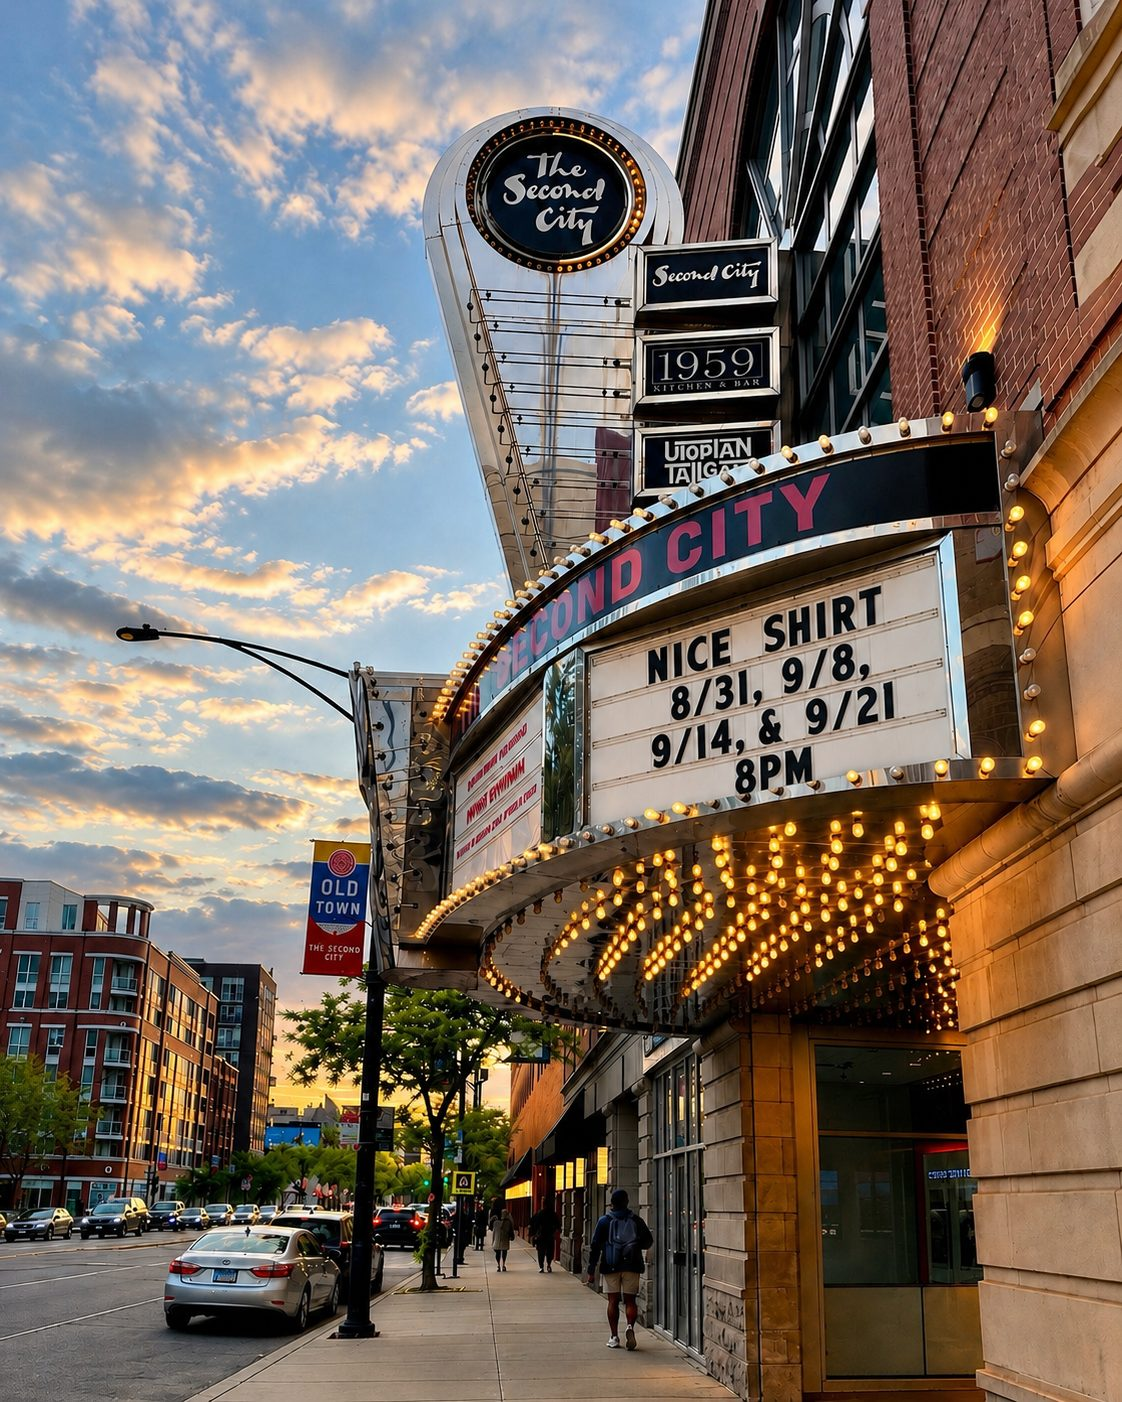
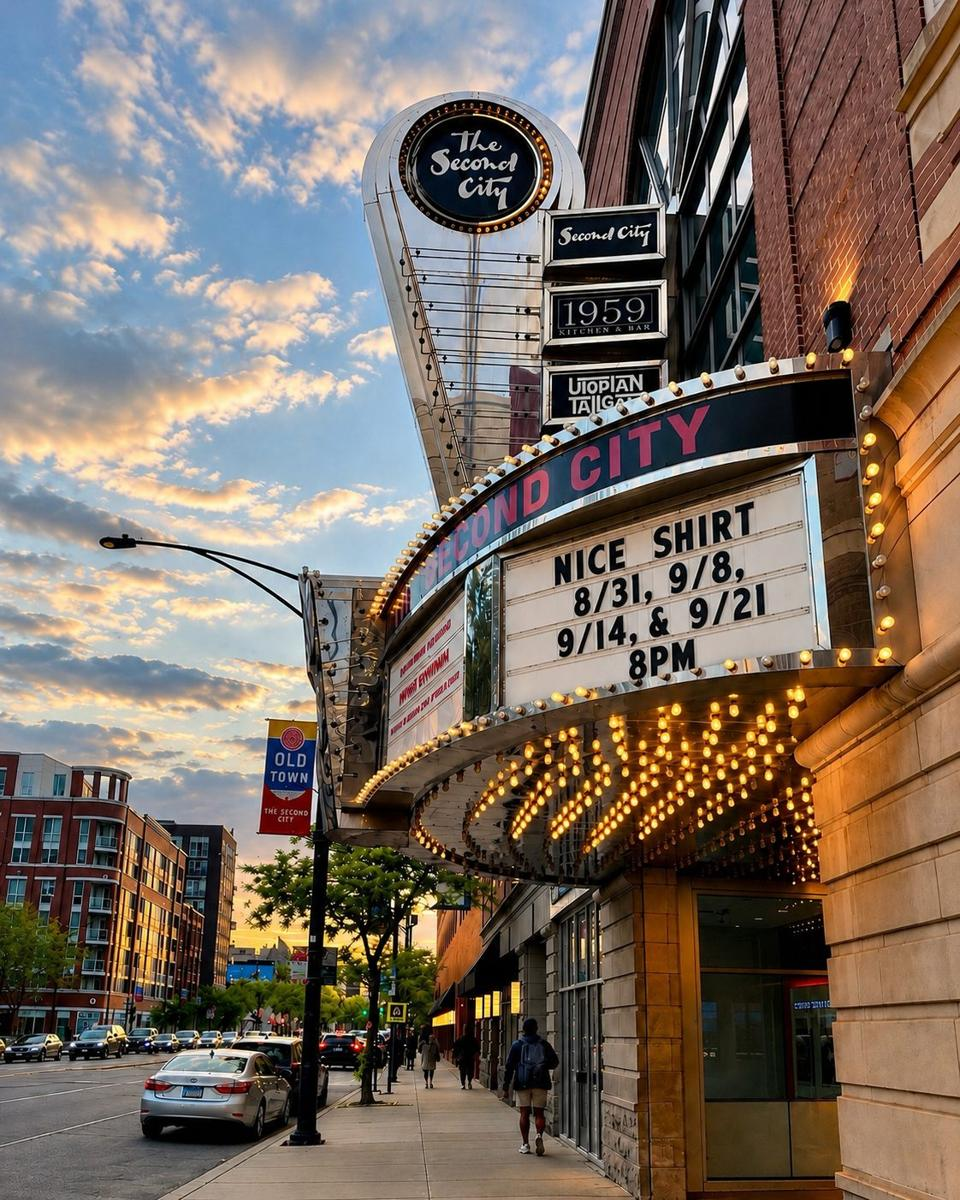
v0.6.1 - contrast on past-show cards, smaller hero image, non-blocking fonts
PageSpeed flagged the 55%-faded past cards below 4.5:1; they now fade to
85% on a darker card with a slightly brighter dim grey. Hero marquee
resized 1122px -> 960px (357 KB -> 223 KB) and preloaded; Google Fonts
load without blocking first paint.

diff --git a/index.html b/index.html
@@ -3,8 +3,8 @@
 <head>
 <meta charset="UTF-8">
 <meta name="viewport" content="width=device-width, initial-scale=1.0">
-<title>NICE SHIRT v0.6.0 · Second City Grad Revue · Chicago Sketch & Improv</title>
-<meta name="app-version" content="0.6.0">
+<title>NICE SHIRT v0.6.1 · Second City Grad Revue · Chicago Sketch & Improv</title>
+<meta name="app-version" content="0.6.1">
 <meta name="description" content="NICE SHIRT, The Second City Grad Revue: original sketch comedy and improv at the Chicago e.t.c. Theater in Old Town. Sept 8, 14 & 21, 2026. Tickets $12.">
 <meta name="keywords" content="NICE SHIRT, Second City, Second City improv, Second City sketch comedy, Second City Grad Revue, Second City Conservatory, Second City Training Center, Chicago improv, Chicago sketch comedy, Chicago comedy shows, Old Town Chicago comedy, e.t.c. Theater, Piper's Alley, comedy shows Chicago September 2026, Waiting for the Punchline">
 <meta name="author" content="NICE SHIRT cast">
@@ -37,7 +37,9 @@
 
 <link rel="preconnect" href="https://fonts.googleapis.com">
 <link rel="preconnect" href="https://fonts.gstatic.com" crossorigin>
-<link rel="stylesheet" href="https://fonts.googleapis.com/css2?family=Luckiest+Guy&family=Montserrat:wght@400;500;600;700;800&display=swap">
+<link rel="preload" as="image" href="assets/marquee.jpg" fetchpriority="high">
+<link rel="stylesheet" href="https://fonts.googleapis.com/css2?family=Luckiest+Guy&family=Montserrat:wght@400;500;600;700;800&display=swap" media="print" onload="this.media='all'">
+<noscript><link rel="stylesheet" href="https://fonts.googleapis.com/css2?family=Luckiest+Guy&family=Montserrat:wght@400;500;600;700;800&display=swap"></noscript>
 
 <!-- Google Analytics 4 (dedicated NICE SHIRT property). Per-device opt-out: ?ga=off / ?ga=on -->
 <script>
@@ -67,7 +69,7 @@
   --line-2:rgba(255,255,255,.22);
   --text:#f4f4f6;
   --muted:#b8b9c3;
-  --dim:#8a8b96;
+  --dim:#9a9ca8;
   --blue:#4aa8ff;
   --blue-2:#7cc0ff;
   --gold:#f5c400;
@@ -207,7 +209,7 @@ h2 .accent{color:var(--blue)}
 .info .p{color:var(--dim);font-size:13px;margin-top:2px}
 .info .p b{color:#fff;font-weight:600}
 .buy{white-space:nowrap}
-.show.past{opacity:.55}
+.show.past{opacity:.85;background:var(--bg-2)}
 .show.past .info .t,.show.past .info .s,.show.past .date .d{text-decoration:line-through;text-decoration-thickness:2px;text-decoration-color:var(--red)}
 .show.past .buy,.show .buy.door{
   font-size:11px;font-weight:700;letter-spacing:.2em;text-transform:uppercase;color:var(--dim);
@@ -593,13 +595,13 @@ footer a:hover{color:#fff}
 <footer>
   <div class="wrap">
     NICE SHIRT &middot; The Second City Grad Revue &middot; Chicago e.t.c. Theater
-    <span class="ver">v0.6.0</span>
+    <span class="ver">v0.6.1</span>
     <div style="margin-top:8px"><a href="https://rizzo.cc/">rizzo.cc</a></div>
   </div>
 </footer>
 
 <script>
-const APP_VERSION = '0.6.0';
+const APP_VERSION = '0.6.1';
 document.title = 'NICE SHIRT v' + APP_VERSION + ' \u00b7 Second City Grad Revue \u00b7 Chicago Sketch & Improv';
 
 /* One entry per performance. Chicago time (CDT = -05:00 through early November). */
